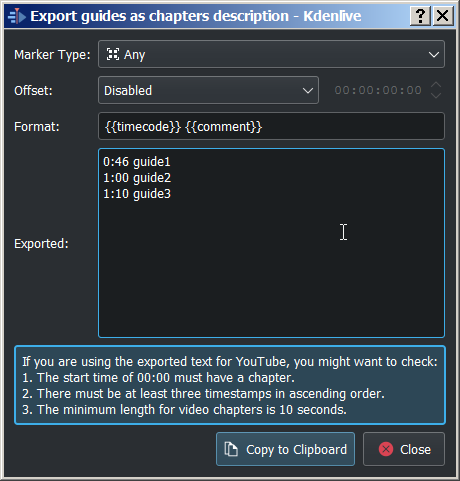
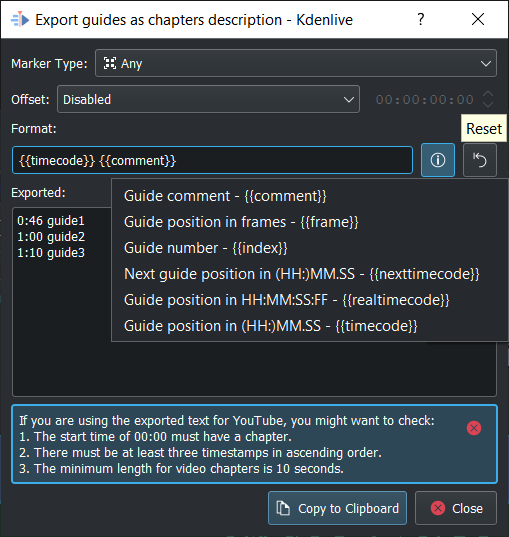
Update export guides as chapter

diff --git a/cutting_and_assembling/guides.rst b/cutting_and_assembling/guides.rst
@@ -68,7 +68,8 @@ Guides can also be used as chapters for DVD videos. See :ref:`rendering`.
 
 .. versionadded:: 22.08
 
-**Export guides as chapter description**
+Export guides as chapter
+------------------------
 
 Guides can mark chapters or different sections of a video while editing. Uploading edited videos to platforms like YouTube, the guides can be exported as chapter marks that are supported by YouTube. This can be done by :guilabel:`Copy to Clipboard` and paste then into YouTube.
 
@@ -81,13 +82,23 @@ Right click in the timeline ruler and choose :guilabel:`Export Guides` or :menus
 
 :guilabel:`Offset`: This adds the ability to set a general offset (hh:mm:ss:ff) to each guide.
 
-:guilabel:`Format`: This defines how the chapter marks are exported. If using the default format string, Kdenlive check if the chapter marker matches YouTube's guideline, and display a notice if it doesn't match.
+:guilabel:`Format`: This defines how the chapter marks are exported. When using the 2 default format strings (as shown on the picture), Kdenlive check if the chapter marker matches YouTube's guideline, and display a notice if it doesn't match.
 
-{{nexttimecode}}: Allow describe chapter time range in a single line (default).
+:guilabel:`i`: Shows all possible export strings. Select the string you want and Kdenlive adds it to the :guilabel:`Format` for export. Add spaces between the strings as needed. 
 
-{{comment}}: Show the guide text (default).
+{{timecode}} adds guide position in HH:MM.SS (default)
 
-{{frame}}: Adds the frame number of each guide.
+{{comment}} adds the guide text (default)
+
+{{frame}} adds the frame number of each guide
+
+{{index}} adds guide number
+
+{{nexttimecode}} adds next guide position in HH:MM.SS
+
+{{realtimecode}} adds guide position in HH:MM:SS:FF
+
+:guilabel:`Reset`: Resets the settings to the default: {{timecode}} {{comment}}
 
 :guilabel:`Exported`: Shows what get exported. To change the guide text you have to edit the guide in the timeline.
 
